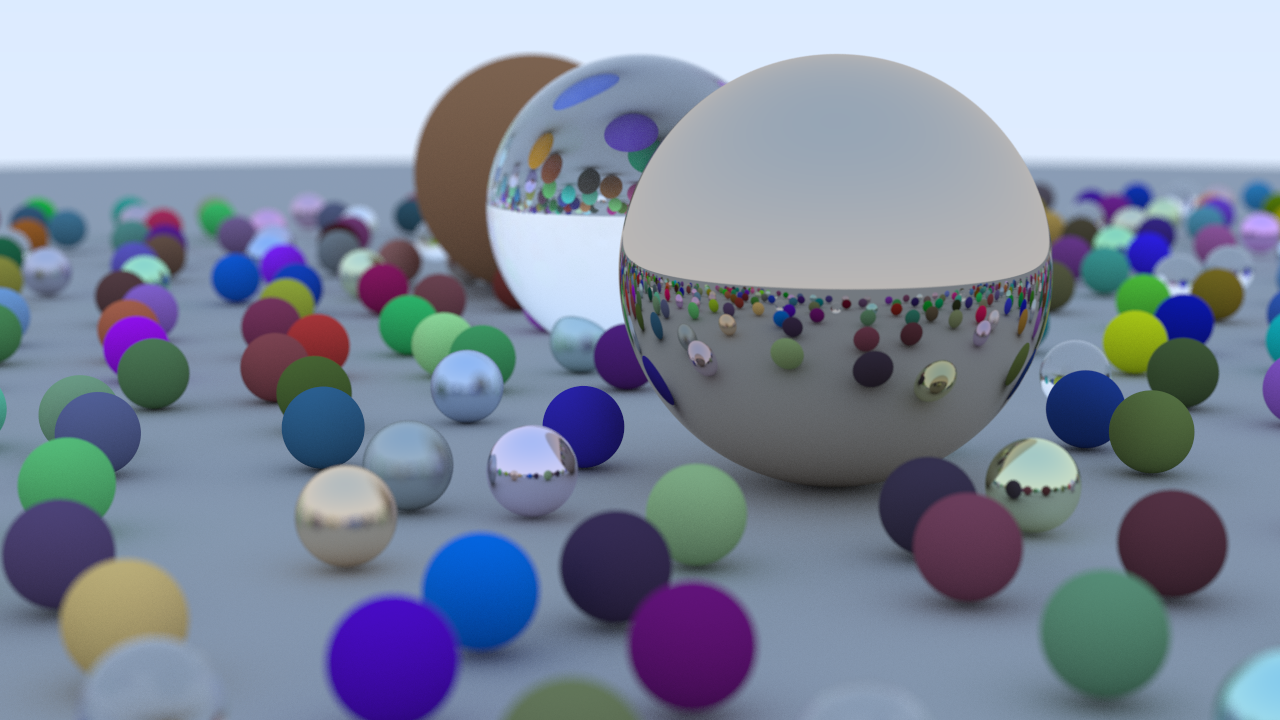
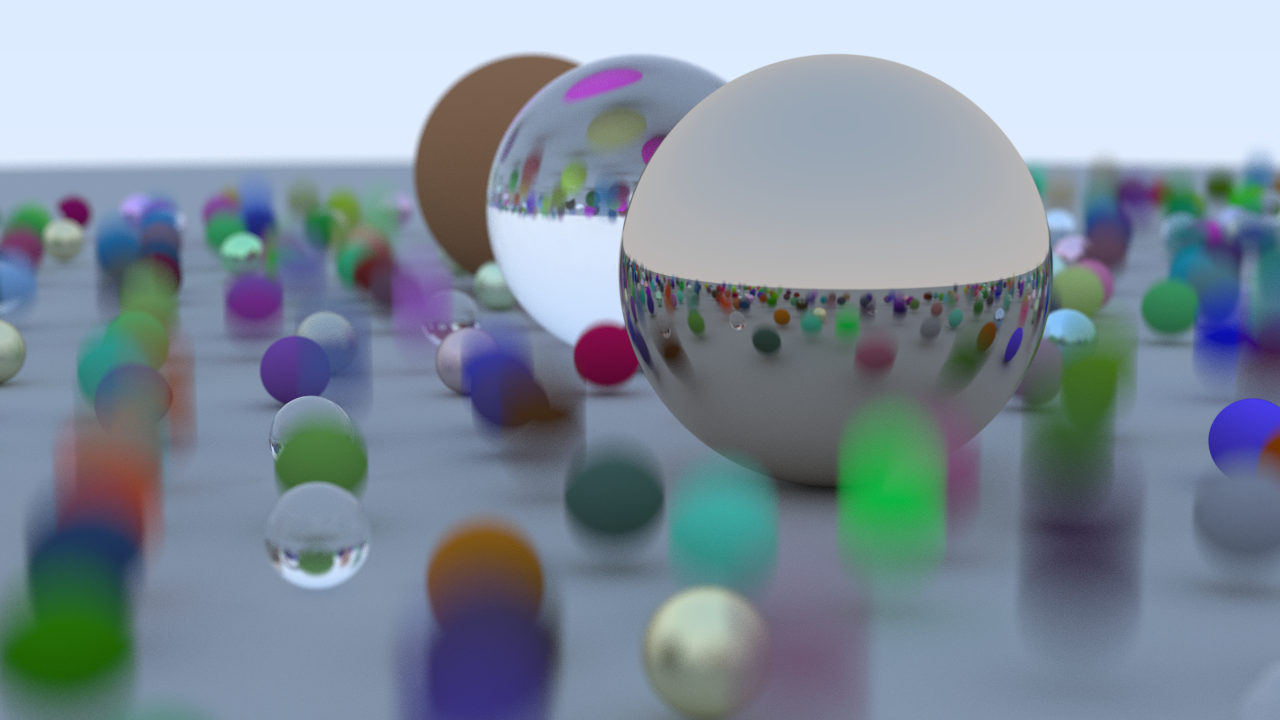
feat: motion blur

diff --git a/src/common/sphere.h b/src/common/sphere.h
@@ -7,13 +7,23 @@
 class Sphere {
 public:
     Sphere() = delete;
-    Sphere(const Vec3d& center, const double radius, pro::proxy<Material> mat)
-        : m_center(center),
+
+    // Stationary Sphere
+    Sphere(const Vec3d& static_center, const double radius, pro::proxy<Material> mat)
+        : m_center(static_center, {0.0, 0.0, 0.0}),
+          m_radius(std::max(0.0, radius)),
+          m_mat(mat) {}
+
+    // Moving Sphere
+    Sphere(const Vec3d& center1, const Vec3d& center2, const double radius,
+        pro::proxy<Material> mat)
+        : m_center(center1, center2 - center1),
           m_radius(std::max(0.0, radius)),
           m_mat(mat) {}
 
     bool hit(const Ray& ray, const Interval& ray_t, HitRecord& hit_rec) const {
-        const Vec3d oc = m_center - ray.origin();
+        const Vec3d current_center = m_center.at(ray.time());
+        const Vec3d oc = current_center - ray.origin();
         const double a = ray.direction().squaredNorm();
         const double h = ray.direction().dot(oc);
         const double c = oc.squaredNorm() - m_radius * m_radius;
@@ -36,7 +46,7 @@ public:
 
         hit_rec.t = root;
         hit_rec.p = ray.at(hit_rec.t);
-        const Vec3d outward_normal = (hit_rec.p - m_center) / m_radius;
+        const Vec3d outward_normal = (hit_rec.p - current_center) / m_radius;
         hit_rec.set_face_normal(ray, outward_normal);
         hit_rec.mat = m_mat;
 
@@ -44,7 +54,7 @@ public:
     }
 
 private:
-    Vec3d m_center;
+    Ray m_center;
     double m_radius;
     pro::proxy<Material> m_mat;
 };

diff --git a/src/common/material.h b/src/common/material.h
@@ -40,7 +40,7 @@ struct Lambertion {
             scatter_direction = hit_rec.normal;
         }
 
-        scattered = Ray(hit_rec.p, scatter_direction);
+        scattered = Ray(hit_rec.p, scatter_direction, ray_in.time());
         attenuation = albedo;
         return true;
     }
@@ -57,7 +57,7 @@ struct Metal {
         Ray& scattered) const {
         Vec3d reflected = reflect(ray_in.direction(), hit_rec.normal);
         reflected = reflected.normalized() + (fuzz * random_unit_vector());
-        scattered = Ray(hit_rec.p, reflected);
+        scattered = Ray(hit_rec.p, reflected, ray_in.time());
         attenuation = albedo;
         return scattered.direction().dot(hit_rec.normal) > 0.0;
     }
@@ -86,7 +86,7 @@ struct Dielectric {
                 ? reflect(unit_direction, hit_rec.normal)
                 : refract(unit_direction, hit_rec.normal, ri);
 
-        scattered = Ray(hit_rec.p, direction);
+        scattered = Ray(hit_rec.p, direction, ray_in.time());
         return true;
     }
 

diff --git a/utils/use_core.cpp b/utils/use_core.cpp
@@ -48,8 +48,9 @@ int main(int argc, const char* argv[]) {
                     // diffuse
                     const Vec3d albedo = random_vec3d().array() * random_vec3d().array();
                     auto sphere_material = std::make_shared<Lambertion>(albedo);
-                    world.add(
-                        pro::make_proxy_shared<Hittable, Sphere>(center, 0.2, sphere_material));
+                    const Vec3d center2 = center + Vec3d {0.0, random_double(0.0, 0.5), 0.0};
+                    world.add(pro::make_proxy_shared<Hittable, Sphere>(center, center2, 0.2,
+                        sphere_material));
                 } else if (choose_mat < 0.95) {
                     // metal
                     const Vec3d albedo = random_vec3d(0.5, 1.0);

diff --git a/src/common/ray.h b/src/common/ray.h
@@ -7,13 +7,20 @@ class Ray {
 public:
     Ray() = default;
     Ray(const Vec3d& origin, const Vec3d& direction) : m_origin(origin), m_direction(direction) {}
+    Ray(const Vec3d& origin, const Vec3d& direction, const double time)
+        : m_origin(origin),
+          m_direction(direction),
+          m_time(time) {}
 
     auto&& origin(this auto&& self) { return self.m_origin; }
     auto&& direction(this auto&& self) { return self.m_direction; }
+
+    double time() const { return m_time; }
 
     Vec3d at(const double t) const { return m_origin + m_direction * t; }
 
 private:
     Vec3d m_origin = Vec3d::Zero();
     Vec3d m_direction = Vec3d::UnitX();
+    double m_time = 0.0;
 };

diff --git a/src/common/camera.h b/src/common/camera.h
@@ -149,8 +149,9 @@ private:
 
         const Vec3d ray_origin = (defocus_angle < 0.0) ? center : defocus_disk_sample();
         const Vec3d ray_direction = pixel_sample - ray_origin;
+        const double ray_time = random_double();
 
-        return Ray(ray_origin, ray_direction);
+        return Ray(ray_origin, ray_direction, ray_time);
     }
 
     Vec3d sample_square() const {
